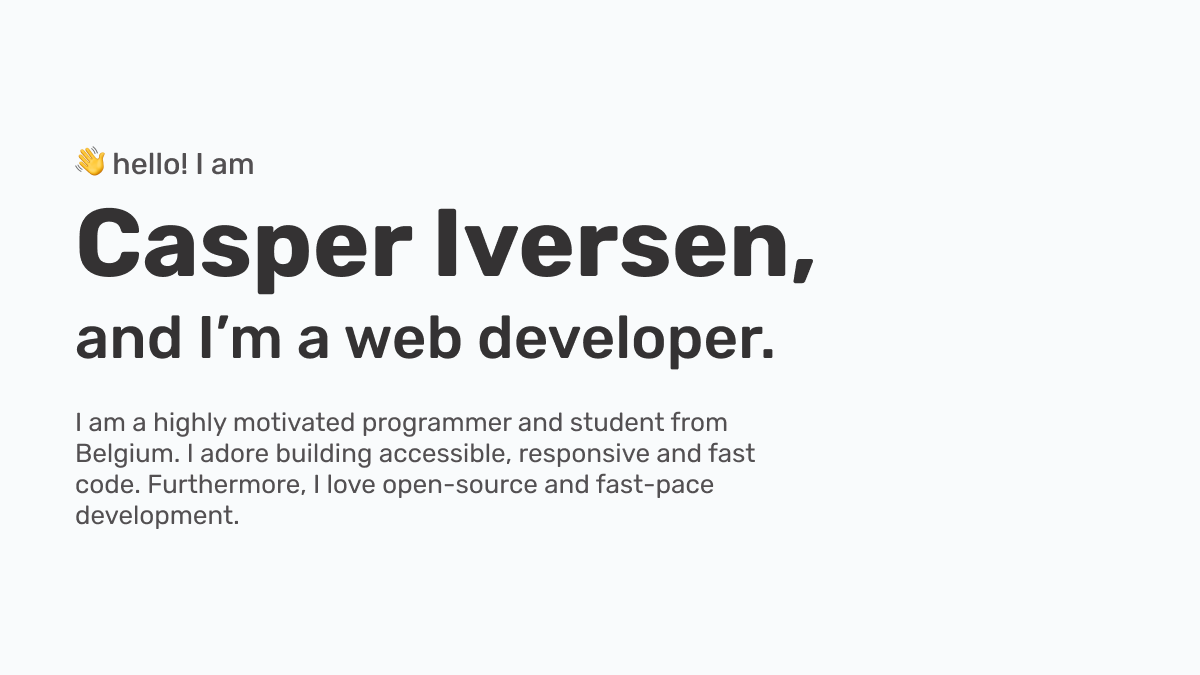
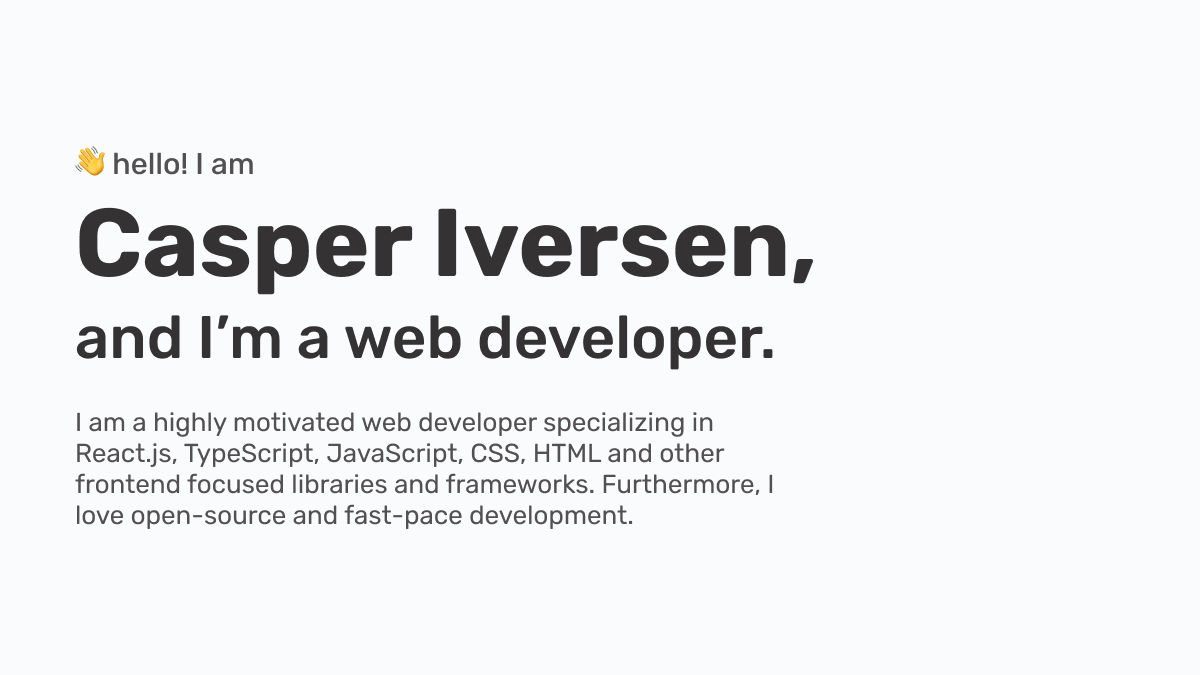
feat: updated og-image

Changed region(s): [[0.0617, 0.5911, 0.6475, 0.7778]]

diff --git a/next-seo.config.js b/next-seo.config.js
@@ -5,7 +5,7 @@ const title = {
   template: "%s - Casper Iversen",
 };
 const description =
-  "I'm a young and motivated web developer specializing in React.js, TypeScript, JavaScript, CSS, HTML and other frontend focused libraries and frameworks.";
+  "I am a highly motivated web developer specializing in React.js, TypeScript, JavaScript, CSS, HTML and other frontend focused libraries and frameworks. Furthermore, I love open-source and fast-pace development.";
 
 export const DEFAULT_KEYWORDS = [
   "dev-caspertheghost",
